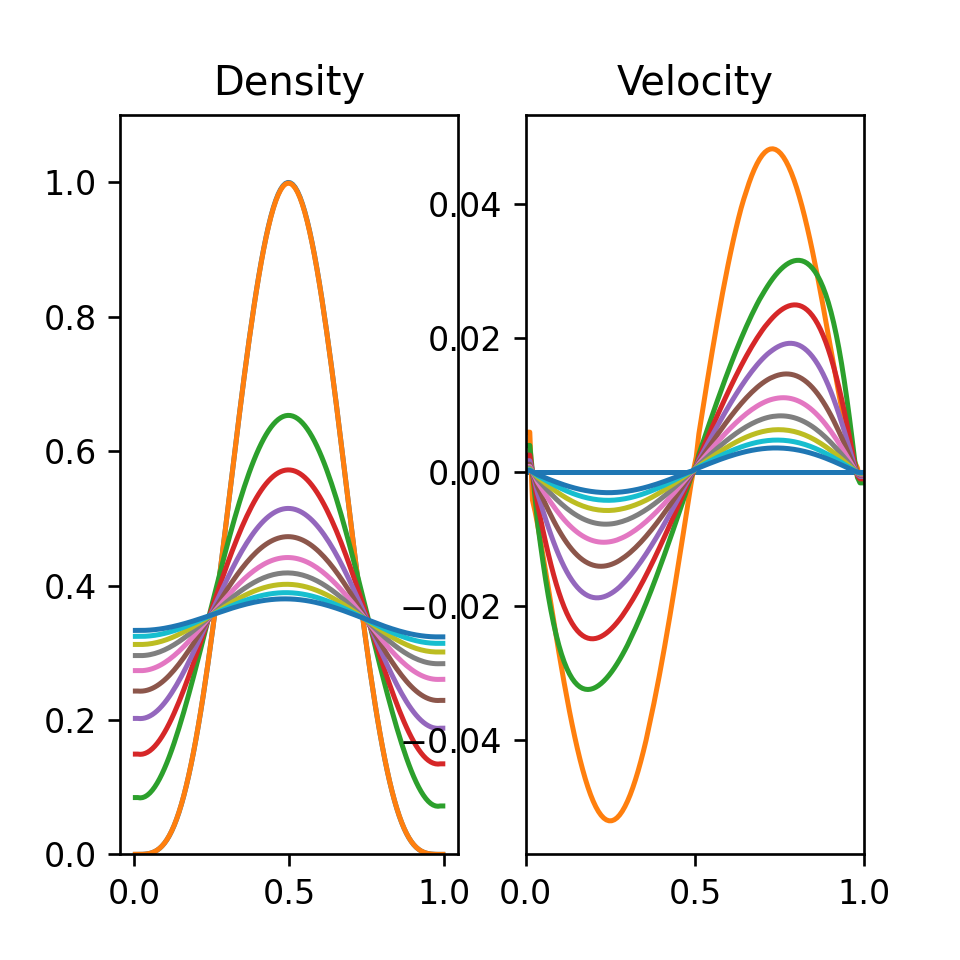
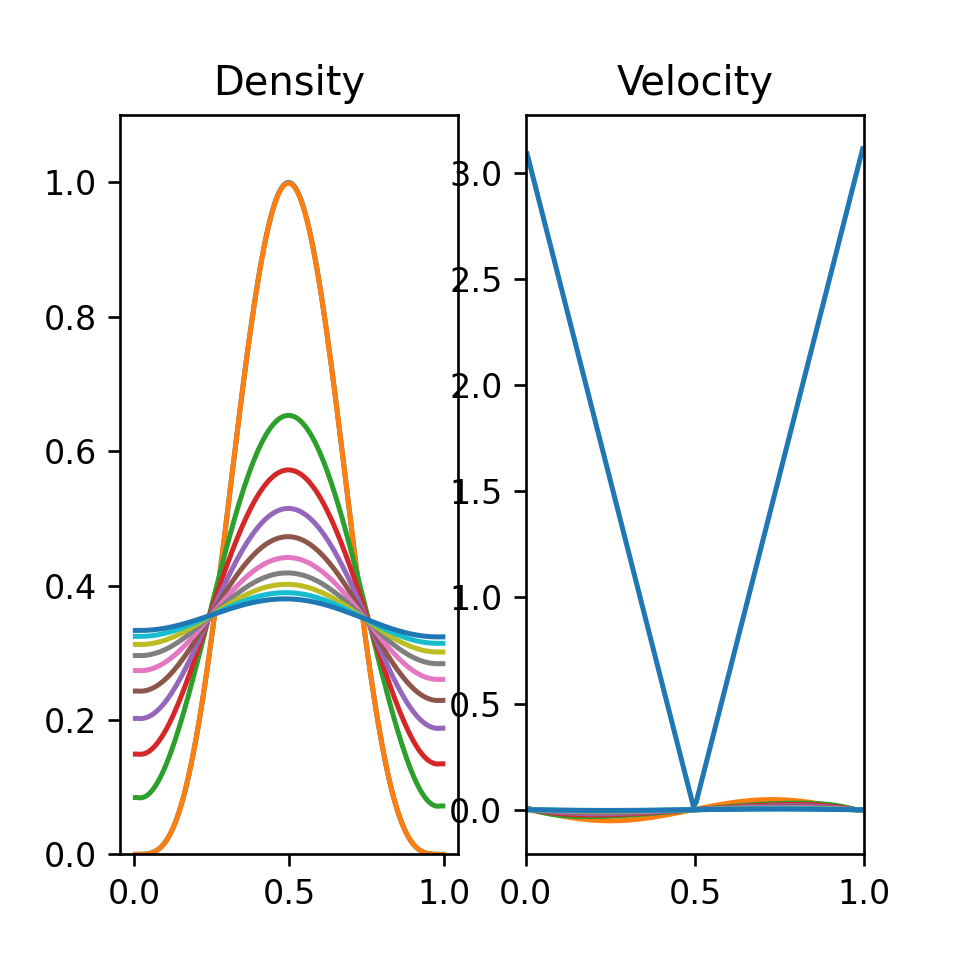
Put the equations in dimensionless form

diff --git a/main.py b/main.py
@@ -12,7 +12,7 @@ def main():
     # Simulation parameters
     N                      = 128 # resolution
     boxsize                = 1.  # in some unit system l
-    gamma                  = 5/3 # adiabatic index
+    gamma                  = 2 # adiabatic index
     zeta                   = 0 # bulk viscosity coefficient
     tau_nu                 = 200
     t                      = 0   # s 
@@ -40,15 +40,15 @@ def main():
 
 
     #rho0 = np.ones(xlin.shape)
-    rho0 = ((1 - ((xlin - (boxsize-0.5*dx)*0.5)**2)/0.25 )**4 ) # Mauricio`s funtion advice   
-    #rho0 = 1*(xlin < boxsize*0.5) + 0.125*(xlin >= boxsize*0.5)
+    #rho0 = ((1 - ((xlin - (boxsize-0.5*dx)*0.5)**2)/0.25 )**4 ) + np.ones(xlin.shape) # Mauricio`s funtion advice   
+    rho0 = 1*(xlin < boxsize*0.5) + 0.125*(xlin >= boxsize*0.5)
     
 
     # put Cubic spline in place of Gaussian
   
 
   
-    #vx0 = np.abs((xlin - (boxsize-0.5*dx)*0.5)/16)
+    #vx0 = 100*np.abs((xlin - (boxsize-0.5*dx)*0.5)/16)
     vx0 = np.zeros(xlin.shape)
     #vx0 = np.sin(xlin)*np.ones(xlin.shape)
 
@@ -61,16 +61,9 @@ def main():
     vx = vx0
     P = P0
     Pi = Pi0
+    B = zeta/tau_nu
     cs = getSpeedOfSound(rho,gamma)
     
-
-    #-----------------------------------------------------------------------------------------------------------------------------------#
-  
-
-    # Get mean rho 
-    
-    time  = np.zeros(int(tEnd/0.01)+1)
-    #rho_mean = np.mean(rho[:0]) * np.ones(int(tEnd/0.01)+1)
 
     #-----------------------------------------------------------------------------------------------------------------------------------#
 
@@ -153,8 +146,8 @@ def main():
         
         # compute fluxes (local Kurganov-Tadmor)
 
-        flux_Mass_XR, flux_Momx_XR, flux_Pi_vxR = getFlux(rhoP_XR, rhoM_XR, vxP_XR, vxM_XR, PiP_XR, PiM_XR, PP_XR, PM_XR, gamma)
-        flux_Mass_XL, flux_Momx_XL, flux_Pi_vxL = getFlux(rhoP_XL, rhoM_XL, vxP_XL, vxM_XL, PiP_XL, PiM_XL, PP_XL, PM_XL, gamma)
+        flux_Mass_XR, flux_Momx_XR, flux_Pi_vxR = getFlux(rhoP_XR, rhoM_XR, vxP_XR, vxM_XR, PiP_XR, PiM_XR, PP_XR, PM_XR, gamma, B)
+        flux_Mass_XL, flux_Momx_XL, flux_Pi_vxL = getFlux(rhoP_XL, rhoM_XL, vxP_XL, vxM_XL, PiP_XL, PiM_XL, PP_XL, PM_XL, gamma, B)
 
         # tests for flux limitation
         if runFluxLimitTests:
@@ -165,7 +158,7 @@ def main():
         
         # update solution
 
-        J = (Pi * vx_dx - (zeta / tau_nu * vx_dx + Pi / tau_nu))
+        J = -(Pi)
         
 
         rho    = modified_RungeKutta(rho,   applyFluxes( flux_Mass_XR,   flux_Mass_XL,   dx),    dt)
@@ -216,13 +209,11 @@ def main():
             
        #-----------------------------------------------------------------------------------------------------------------------------------#    
   
-           
-    #plt.plot(rho_mean, time)
         
     # Save figure
   
     
-    plt.savefig('finitevolume_PolynomialDensity_.png',dpi=240)
+    plt.savefig('finitevolume.png',dpi=240)
 
     plt.show()
 

diff --git a/KTalgorithm.py b/KTalgorithm.py
@@ -31,7 +31,7 @@ def getGradient(f, dx, theta=1):
 
     return df_dx
 
-def local_propagation_speed(rho, vx, Pi, gamma): 
+def local_propagation_speed(rho, vx, Pi, gamma, B): 
    '''
     rho          is a matrix of left-state  density
     vx_P         is a matrix of x-velocity
@@ -39,13 +39,16 @@ def local_propagation_speed(rho, vx, Pi, gamma):
     cs           is the speed of sound
     '''
 
-   cs = getSpeedOfSound(rho, gamma)
-
    C1 = np.abs(vx)
 
-   C2 = np.abs(vx - np.sqrt(np.abs(cs**2 + np.divide(Pi , rho , out=np.zeros_like(Pi), where=rho!=0 ))  ) )
+   C2 = np.abs(vx/(2*gamma) - np.divide(np.sqrt(rho**2 * vx**2 - 2 * rho * vx**2 * gamma + 4 * (B + Pi) * rho * gamma**2 + 4* rho**(1+ gamma) * gamma**3 ),
+                                        2 * rho * gamma, out=np.zeros_like(rho**2 * vx**2 - 2 * rho * vx**2 * gamma + 4 * (B + Pi) * rho * gamma**2 + 4* rho**(1+ gamma) * gamma**3),
+                                        where=rho!=0)) 
 
-   C3 = np.abs(vx + np.sqrt(np.abs( cs**2 + np.divide(Pi , rho , out=np.zeros_like(Pi), where=rho!=0 ) ) ) )
+
+   C3 = np.abs(vx/(2*gamma) + np.divide(np.sqrt(rho**2 * vx**2 - 2 * rho * vx**2 * gamma + 4 * (B + Pi) * rho * gamma**2 + 4* rho**(1+ gamma) * gamma**3 ),
+                                        2 * rho * gamma, out=np.zeros_like(rho**2 * vx**2 - 2 * rho * vx**2 * gamma + 4 * (B + Pi) * rho * gamma**2 + 4* rho**(1+ gamma) * gamma**3),
+                                          where=rho!=0))   
 
    return np.maximum(C1,C2,C3)
 
@@ -69,9 +72,9 @@ def extrapolateInSpaceToFace(q, q_dx, dx):
   
   return qM_XL, qP_XL, qM_XR, qP_XR
 
-def getFlux(rho_P, rho_M, vx_P, vx_M, Pi_P, Pi_M, P_P, P_M, gamma):
+def getFlux(rho_P, rho_M, vx_P, vx_M, Pi_P, Pi_M, P_P, P_M, gamma, B):
   """
-  Calculate fluxed between 2 states with local Kurganov Tadmor rule 
+  Calculate fluxed between 2 states with local Kurganov-Tadmor rule 
   rho_P        is a matrix of left-state  density
   rho_M        is a matrix of right-state density
   vx_P         is a matrix of left-state  x-velocity
@@ -97,14 +100,14 @@ def getFlux(rho_P, rho_M, vx_P, vx_M, Pi_P, Pi_M, P_P, P_M, gamma):
   # compute fluxes (local Kurganov-Tadmor)
 
   flux_Mass   = momx_av
-  flux_Momx   = 0.5*(rho_P*(vx_P)**2 + rho_M*(vx_M)**2) + P_av + Pi_av
-  flux_Pi_v   = Pi_vx_av
+  flux_Momx   = 0.25*(rho_P*(vx_P)**2 + rho_M*(vx_M)**2) + (P_av + Pi_av)/gamma
+  flux_Pi_v   = Pi_vx_av + B * (vx_P + vx_M)
   
   # find wavespeeds
 
-  C_P = local_propagation_speed(rho_P , vx_P, Pi_P, gamma) # max propagation speed from the left
+  C_P = local_propagation_speed(rho_P , vx_P, Pi_P, gamma, B) # max propagation speed from the left
 
-  C_M = local_propagation_speed(rho_M , vx_M, Pi_M, gamma) # max propagation speed from the right
+  C_M = local_propagation_speed(rho_M , vx_M, Pi_M, gamma, B) # max propagation speed from the right
 
   C = np.maximum(C_M, C_P)
 

diff --git a/EoS.py b/EoS.py
@@ -12,9 +12,9 @@ def getConserved( rho, vx, vol ):
     Momx     is matrix of x-momentum in cells
     """
     Mass   = rho * vol
-    Momr   = rho * vx * vol
+    Momx   = rho * vx 
 
-    return Mass, Momr
+    return Mass, Momx
   
 def getPrimitive( Mass, Momx, gamma, vol):
   """
@@ -24,7 +24,7 @@ def getPrimitive( Mass, Momx, gamma, vol):
   gamma    is ideal gas gamma
   vol      is cell volume
   rho      is matrix of cell densities
-  vx       is matrix of cell r-velocity
+  vx       is matrix of cell x-velocity
   P        is matrix of cell pressures
   """
   rho = Mass / vol
